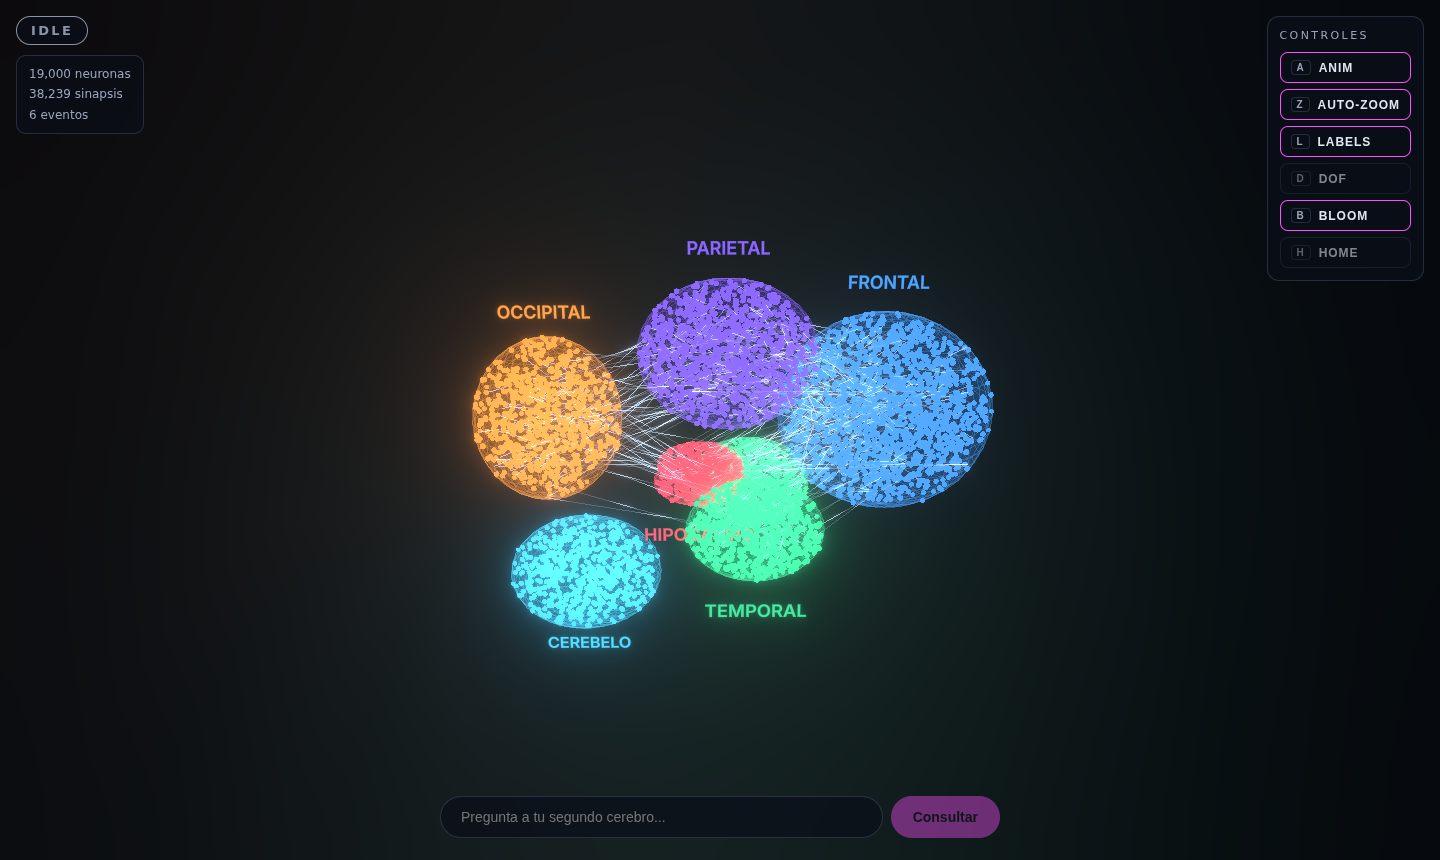
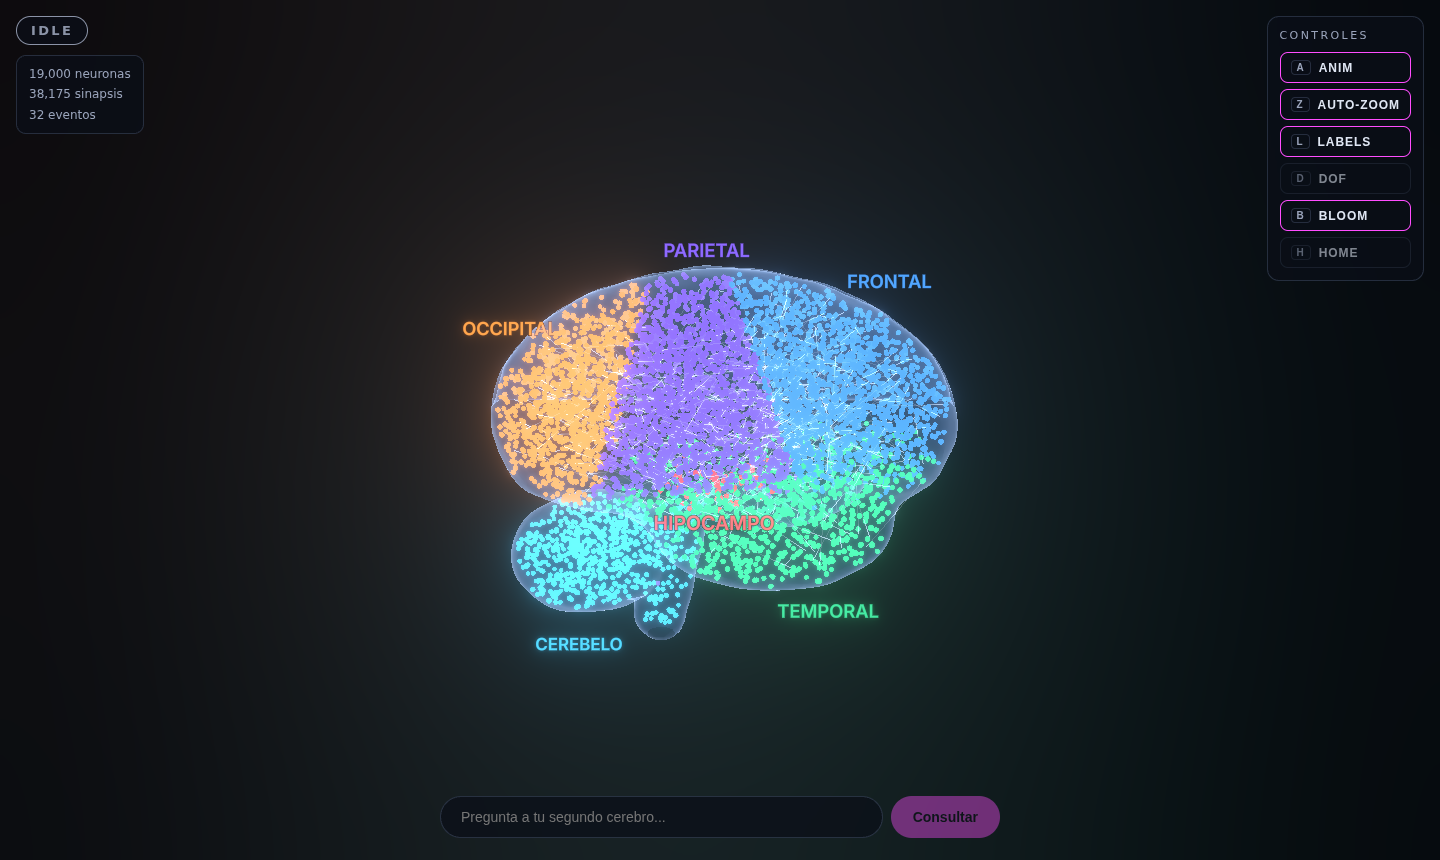
docs: document the v2 anatomical layout and add the instructions
Claude-Session: https://claude.ai/code/session_01FtnkjFZqhvsLejwne1Sczp

Changed region(s): [[0.3125, 0.2721, 0.6875, 0.7558], [0.0312, 0.1209, 0.0625, 0.1512]]

diff --git a/docs/INSTRUCCIONES-v2.md b/docs/INSTRUCCIONES-v2.md
@@ -1,0 +1,165 @@
+# INSTRUCCIONES — v2 anatómico de Neural Brain
+
+Guía paso a paso para Claude Code. Objetivo: pasar de las 6 esferas
+separadas a **un solo cerebro anatómico en vista lateral**, sin romper
+nada de lo que ya funciona (SSE, fases de query, hooks, Git, controles).
+
+> Las fases INPUT / SEARCH / CONNECT / SYNTHESIZE **no cambian de lógica**:
+> solo cambian las posiciones base de las neuronas.
+
+---
+
+## Paso 1 — Copiar el sampler al backend
+
+Copia `backend/brain_layout.py` de este paquete a la raíz del backend del
+proyecto (al lado de la carpeta `app/`):
+
+```
+tu-proyecto/
+├── backend/
+│   ├── brain_layout.py      ← nuevo
+│   └── app/
+│       ├── graph_store.py
+│       └── ...
+```
+
+No requiere dependencias nuevas salvo numpy (ya la tienes) y scikit-image
+(solo para generar la cáscara, paso 3).
+
+## Paso 2 — Instalar scikit-image (solo para generar la cáscara)
+
+```bash
+pip install scikit-image
+```
+
+Si no puedes/quieres instalarlo, genera solo el layout con `--no-shell`
+y omite el paso 5 (la app funciona sin cáscara; `BrainShell` muestra un
+warning en consola y sigue).
+
+## Paso 3 — Generar los JSON
+
+```bash
+cd backend
+python brain_layout.py --neurons 19000 --out brain_layout.json \
+    --shell brain_shell.json --seed 42
+```
+
+Verifica la salida: debe imprimir `validation OK` y el conteo por región
+(ninguna región en 0; hipocampo será la menor, es normal). Tarda ~1-2 min.
+
+## Paso 4 — Colocar los JSON donde los ve cada lado
+
+| Archivo             | Destino                        | Quién lo lee                    |
+|---------------------|--------------------------------|---------------------------------|
+| `brain_layout.json` | `backend/brain_layout.json`    | `GraphStore` vía `load_into_graphstore()` |
+| `brain_shell.json`  | `frontend/public/brain_shell.json` | `BrainShell.tsx` vía `fetch("/brain_shell.json")` |
+
+## Paso 5 — Crear los archivos nuevos del frontend
+
+Copia desde `frontend/src/` de este paquete (mantén las rutas relativas):
+
+- `src/config/brainConfig.ts` ← nuevo
+- `src/components/BrainShell.tsx` ← nuevo (reemplaza a `RegionShells`)
+- `src/components/RegionLabels.tsx` ← nuevo (reemplaza los labels viejos)
+
+## Paso 6 — Cablear `GraphStore.load_into_graphstore()`
+
+En `backend/app/graph_store.py`:
+
+1. Importa la función: `from brain_layout import load_into_graphstore`
+   (ajusta según dónde quedó el archivo; si `brain_layout.py` está en
+   `backend/` y `app/` es un paquete, usa `from ..brain_layout import ...`
+   o `sys.path` según tu layout).
+2. En `GraphStore.seed_brain()`, reemplaza el loop de `REGION_ELLIPSOIDS`
+   por:
+
+```python
+def seed_brain(self) -> int:
+    """v2: seed from the precomputed anatomical layout."""
+    from brain_layout import load_into_graphstore
+    return load_into_graphstore(self, layout_path="brain_layout.json")
+```
+
+3. En `GraphStore.add_neuron` (neuronas nuevas de ingest/hooks/query):
+   cuando `position` sea `None`, en vez de `_sample_position(region)`
+   usa rejection sampling del SDF para que caigan dentro del cerebro:
+
+```python
+from brain_layout import sdf_brain, classify_regions
+import numpy as np
+
+# dentro de add_neuron, reemplaza: pos = position or self._sample_position(region)
+if position is None:
+    rng = np.random.default_rng()
+    while True:
+        cand = rng.uniform([-6.0, -5.0, -3.5], [5.5, 4.0, 3.5], size=(64, 3))
+        inside = cand[sdf_brain(cand) < 0.0]
+        if len(inside):
+            p = inside[0]
+            break
+    pos = (float(p[0]), float(p[1]), float(p[2]))
+    region = Region(str(classify_regions(np.array([p]))[0]))
+else:
+    pos = position
+```
+
+   (Requiere numpy en el backend; ya es dependencia del proyecto.)
+
+## Paso 7 — Actualizar el canvas
+
+En `BrainCanvas.tsx` (o donde se componen los componentes 3D):
+
+```tsx
+// ANTES
+import { RegionShells } from "./RegionShells";
+// DESPUÉS
+import { BrainShell } from "./BrainShell";
+import { RegionLabels } from "./RegionLabels";
+```
+
+```tsx
+// ANTES
+<RegionShells />
+// DESPUÉS
+<BrainShell />
+<RegionLabels />
+```
+
+Puedes borrar `RegionShells.tsx` o dejarlo sin usar.
+
+Opcional: usa `QUERY_SPAWN_Y` de `brainConfig.ts` como altura de la
+neurona magenta en la fase INPUT, y `BRAIN_CENTER` como target de la
+cámara en HOME.
+
+## Paso 8 — Revisar `NeuronField`
+
+Ver `frontend/src/patches/NeuronField.patch.md`. Camino recomendado:
+**cero cambios** — si el backend sirve las posiciones v2 por
+`GET /graph`, `NeuronField` las dibuja sin modificarse.
+
+## Paso 9 — Verificación
+
+1. `uvicorn` backend + `vite` frontend como siempre.
+2. Al abrir la app debes ver **un solo cerebro en vista lateral**:
+   frontal a la derecha, occipital a la izquierda, cerebelo abajo-atrás,
+   cáscara translúcida tenue con fresnel.
+3. Las 6 regiones se ven como **zonas de color dentro del volumen**
+   (azul frontal, morado parietal, verde temporal, naranja occipital,
+   rojo hipocampo, cian cerebelo), no como esferas separadas.
+4. Toggles: ANIM, AUTO-ZOOM, LABELS, DOF, BLOOM, HOME siguen funcionando.
+   Con LABELS apagado no hay etiquetas.
+5. Haz un query: las 4 fases (INPUT → SEARCH → CONNECT → SYNTHESIZE)
+   se ven igual que antes, ahora sobre el cerebro anatómico.
+6. Dispara un hook de Claude Code (lee un archivo): la neurona nueva
+   aparece dentro del cerebro, no flotando fuera.
+
+## Notas
+
+- El LOD estratificado (`render_order`) sigue válido: el orden de
+  `brain_layout.json` ya mezcla regiones de forma aproximadamente
+  uniforme porque el sampling es uniforme en el volumen.
+- `Fibers.tsx` no cambia: las fibras ahora conectan zonas dentro del
+  mismo cerebro (efecto corpus callosum más legible).
+- Si regeneras el layout con otra seed, recuerda copiar de nuevo
+  `brain_layout.json` al backend y reiniciar.
+- `brain_shell.json` pesa ~1-2 MB; es estático, el navegador lo cachea.

diff --git a/README.md b/README.md
@@ -16,7 +16,7 @@
 
 | | |
 |---|---|
-| 🧠 **Cerebro anatómico** | 19.000 neuronas en 6 regiones (frontal, parietal, temporal, occipital, hipocampo, cerebelo) formadas por 8 elipsoides, con fibras largas tipo cuerpo calloso. Dos `InstancedMesh` (base + halo) → 2 draw calls. |
+| 🧠 **Cerebro anatómico (v2)** | **Un solo cerebro en vista lateral**: frontal a la derecha, occipital a la izquierda, cerebelo abajo-atrás, con cáscara translúcida (fresnel). 19.000 neuronas repartidas uniformemente en el volumen; las 6 regiones (frontal, parietal, temporal, occipital, hipocampo, cerebelo) son **zonas de color** dentro de él, unidas por fibras largas tipo cuerpo calloso. Dos `InstancedMesh` (base + halo) → 2 draw calls. |
 | 🔎 **Memoria semántica** | Cada texto ingerido, evento de Claude Code o pregunta se convierte en neurona con embedding en ChromaDB. |
 | ⚡ **Consultas en 4 fases** | `INPUT` (neurona magenta arriba) → `SEARCH` (rayos magenta + "escaneando memoria...") → `CONNECT` (labels con % y conexiones blancas) → `SYNTHESIZE` (neurona amarilla gigante + explosión) → `IDLE`. Todo llega por **SSE**. |
 | 🤖 **Claude** | Con `ANTHROPIC_API_KEY`, Claude redacta la respuesta de la fase SYNTHESIZE a partir de los recuerdos encontrados (se muestra en el HUD). Sin key, un resumen extractivo. |
@@ -133,10 +133,26 @@ Frontend (`frontend/.env`): `VITE_API_URL=http://localhost:8000`.
 ## Tests
 
 ```bash
-make test        # 15 tests, sin red ni API key
+make test        # 20 tests, sin red ni API key
 ```
 
-Cubren: 19.000 neuronas sembradas, estratificación de cada nivel LOD, reciclado, posiciones dentro de los elipsoides, snapshot/restore, fan-out del SSE, las 5 fases en orden con el top-1 correcto, fallback a hipocampo, API completa, Git (commit/log/restore) y el `hook_handler`. CI ejecuta además `tsc` + build del frontend.
+Cubren: 19.000 neuronas sembradas dentro del cerebro y en su región, anatomía lateral, neuronas nuevas dentro de su región, migración de snapshots v1, validez de `brain_layout.json` / `brain_shell.json`, estratificación de cada nivel LOD, reciclado, snapshot/restore, fan-out del SSE, las 5 fases en orden con el top-1 correcto, fallback a hipocampo, API completa, Git (commit/log/restore) y el `hook_handler`. CI ejecuta además `tsc` + build del frontend.
+
+## Layout anatómico v2 (`backend/brain_layout.py`)
+
+El cerebro es un campo de distancia con signo (SDF): cerebro con base aplanada y cisura entre hemisferios, lóbulos temporales, cerebelo y tronco encefálico, unidos con uniones suaves. Las neuronas se muestrean uniformemente dentro y cada punto se clasifica en su región.
+
+```bash
+cd backend
+python brain_layout.py --neurons 19000 --out brain_layout.json \
+    --shell ../frontend/public/brain_shell.json --seed 42      # "validation OK" + conteo por región
+python brain_layout.py --no-shell                              # sólo el layout (sin scikit-image)
+```
+
+- `brain_layout.json` (backend) y `brain_shell.json` (`frontend/public`) ya vienen generados; sólo hace falta regenerarlos si cambias la forma o la seed (la cáscara necesita `pip install scikit-image`, dependencia sólo de desarrollo). Si falta `brain_layout.json`, el backend lo genera al arrancar.
+- Neuronas nuevas (ingesta, hooks, consultas) se colocan por rejection sampling del SDF **dentro de su región** (un `Read` sigue cayendo en el temporal).
+- Un `graph.json` guardado con el layout v1 (6 elipsoides) se **migra** al cargarlo: cada neurona conserva id, región, label, aristas y embedding; sólo cambia de posición.
+- Sin `brain_shell.json` la app funciona igual (aviso en consola, sin cáscara).
 
 ## Diferencias con la especificación
 

diff --git a/docs/ARCHITECTURE.md b/docs/ARCHITECTURE.md
@@ -15,13 +15,13 @@ flowchart TB
         BUS["events.py\nEventBus (una cola por cliente)"]
     end
     subgraph ST["Stores"]
-        GS["graph_store.py\nDiGraph 19k · elipsoides · LOD · fibras"]
+        GS["graph_store.py\nDiGraph 19k · layout anatómico (brain_layout.py) · LOD · fibras"]
         VS["vector_store.py\nChromaDB 'neurons'"]
         GIT["git_store.py\ngraph.json versionado"]
     end
     subgraph FE["frontend — React + R3F :5173"]
         SOCK["useBrainSocket.ts"] --> STORE["brainStore.ts (zustand)\n+ activation / upsert bus"]
-        STORE --> CANVAS["BrainCanvas: NeuronField (2×19k instanced) · RegionShells · Fibers · QueryAnimation"]
+        STORE --> CANVAS["BrainCanvas: NeuronField (2×19k instanced) · BrainShell · RegionLabels · Fibers · QueryAnimation"]
     end
     HOOKS -->|POST /hooks/event| API
     API <--> GS & VS
@@ -37,7 +37,8 @@ flowchart TB
 | Módulo | Qué hace |
 |---|---|
 | `models.py` | Contratos Pydantic (espejados en `frontend/src/types.ts`). |
-| `graph_store.py` | 19.000 neuronas en 8 elipsoides / 6 regiones con presupuesto por región; 2 aristas locales por neurona; 240 fibras entre regiones; **orden de render estratificado proporcional**: en cualquier prefijo cada región aparece en su proporción (frontal 27,4 %…), así cada nivel LOD es un cerebro completo. Cuando está lleno, `add_neuron` **recicla** la neurona semilla menos activada (conserva su posición en el orden). |
+| `../brain_layout.py` | v2: el cerebro como SDF (vista lateral), `classify_regions`, muestreo uniforme en el volumen, generación de `brain_layout.json` y de la cáscara `brain_shell.json` (marching cubes). |
+| `graph_store.py` | 19.000 neuronas sembradas desde `brain_layout.json` (6 regiones como zonas de un mismo volumen; hipocampo la menor); neuronas nuevas muestreadas dentro de su región; snapshots v1 migrados al cargar; 2 aristas locales por neurona; 240 fibras entre regiones; **orden de render estratificado proporcional**: en cualquier prefijo cada región aparece en su proporción (p. ej. el 25 % de cualquier prefijo es frontal), así cada nivel LOD es un cerebro completo. Cuando está lleno, `add_neuron` **recicla** la neurona semilla menos activada (conserva su posición en el orden). |
 | `vector_store.py` | ChromaDB con `sentence-transformers`; `EMBEDDING_BACKEND=hash` usa un embedder de hashing sin descargas. |
 | `git_store.py` | `graph.json` en un repo Git local; commits con el CLI de `git` (sobrevive a Ctrl+C); auto-commit cada 25 eventos / 60 s; `restore(hash)` recarga y vuelve a commitear. |
 | `events.py` | Bus de eventos con **una cola por suscriptor SSE** (el spec usaba una cola compartida que repartía los eventos entre pestañas). |
